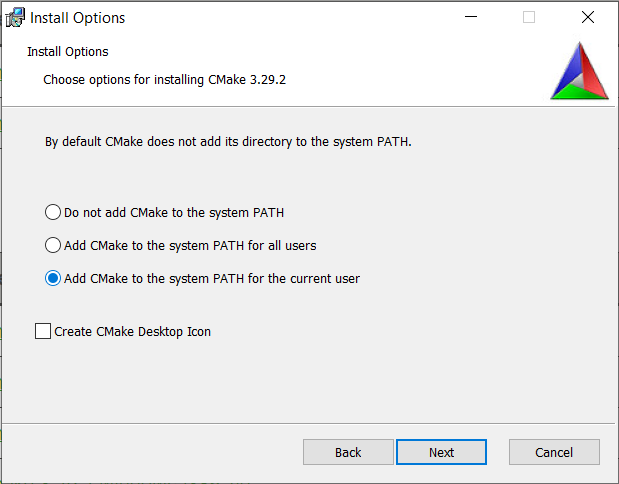
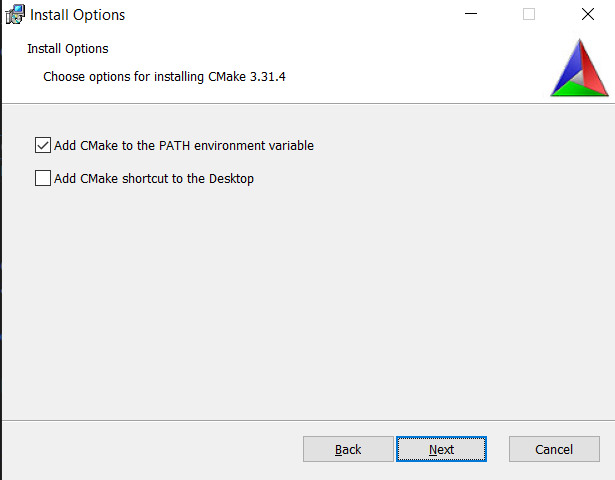
Update CMake installation process

diff --git a/docs/M1 GP/Partie 1 - Setup.md b/docs/M1 GP/Partie 1 - Setup.md
@@ -17,7 +17,7 @@ Un compilateur va transformer votre code en un programme exécutable. Vous ne l'
 ## Installer CMake
 
 [Téléchargez `Windows x64 Installer` depuis cette page.](https://cmake.org/download/)<br/>
-**IMPORTANT** : pendant l'installation, cochez bien `Add CMake to the system PATH for the current user` (ou `Add CMake to the system PATH for all users`).
+**IMPORTANT** : pendant l'installation, cochez bien `Add CMake to the PATH environment variable`.
 
 ![Add CMake to the system PATH for the current user](img/cmake.png)
 
